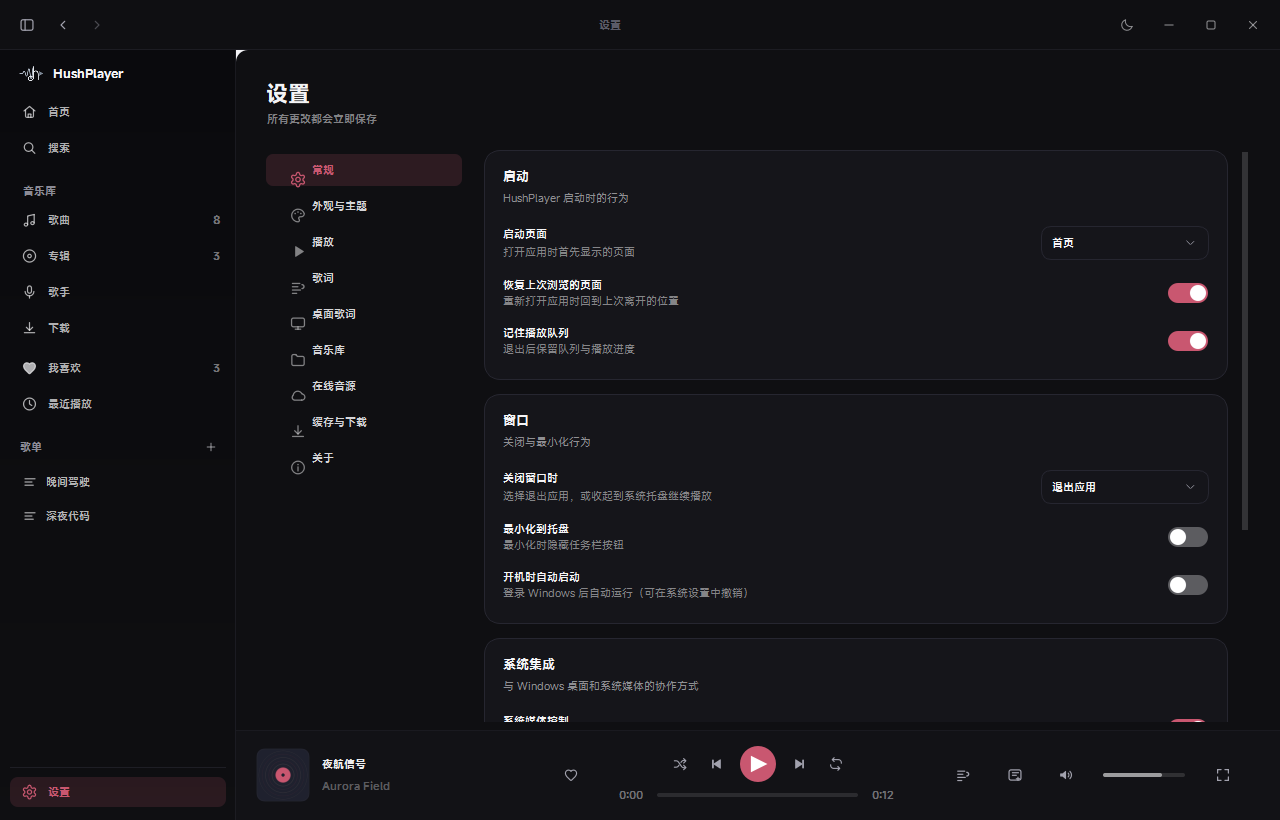
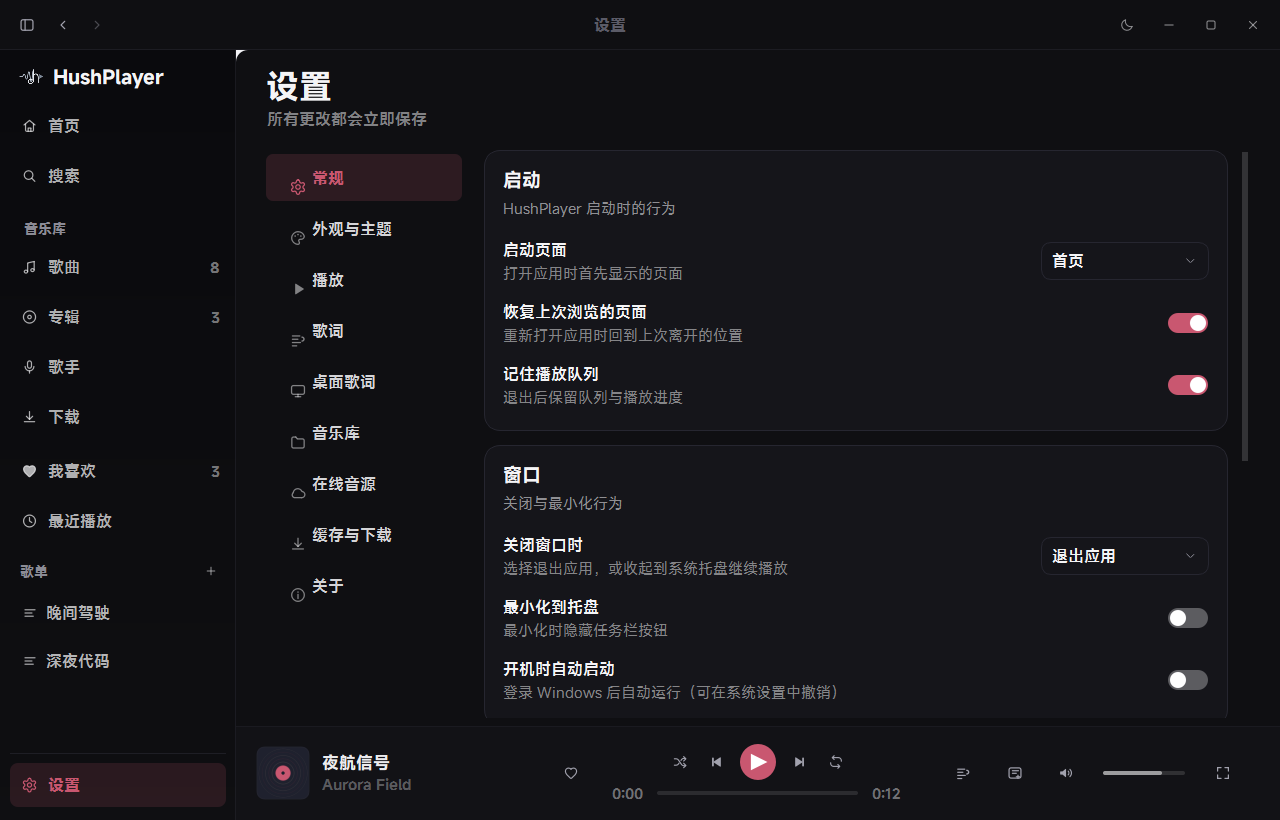
feat(ui): 关闭方式询问、100% DPR + 1.5 类型缩放、设置导航对齐（1.0.23/1.0.24）

diff --git a/hushplayer/core/theme.py b/hushplayer/core/theme.py
@@ -162,13 +162,13 @@ class Metrics:
     radius_lg: int = 16
     radius_xl: int = 22
     titlebar_h: int = 48
-    sidebar_w: int = 236
-    sidebar_rail_w: int = 72
-    player_h: int = 90
+    sidebar_w: int = 244
+    sidebar_rail_w: int = 76
+    player_h: int = 94
     page_pad: int = 30
     gap: int = 16
-    row_h: int = 46
-    row_h_compact: int = 36
+    row_h: int = 50
+    row_h_compact: int = 38
     control: int = 34
     hit: int = 30
     motion_fast: int = 110
@@ -188,6 +188,7 @@ class Theme(QObject):
         self._palette = DARK
         self._reduce_motion = False
         self._font_scale = 1.0
+        self._ui_scale = 1.0
         self._accent = BRAND_ACCENT
         self._density = "comfortable"
         self._families = _detect_families()
@@ -218,6 +219,29 @@ class Theme(QObject):
         return self._font_scale
 
     @property
+    def ui_scale(self) -> float:
+        """Layout-independent type scale for high-resolution screens.
+
+        Keeping the device pixel ratio at 1.0 and enlarging type/metrics here
+        keeps glyphs on whole pixels (crisp) while still looking comfortable on
+        a 1440p panel.
+        """
+        return self._ui_scale
+
+    @property
+    def type_scale(self) -> float:
+        return self._ui_scale * self._font_scale
+
+    def scaled(self, value: int | float, *, factor: float = 0.85) -> int:
+        """Scale a layout constant with the type scale (nav rows, chips, …)."""
+        scale = 1.0 + (self.type_scale - 1.0) * factor
+        return int(round(float(value) * scale))
+
+    def pt(self, size: float) -> float:
+        """Point size scaled with both UI density and the user font slider."""
+        return size * self.type_scale
+
+    @property
     def accent(self) -> str:
         return self._accent
 
@@ -236,6 +260,7 @@ class Theme(QObject):
         reduce_motion: bool | None = None,
         font_scale: float | None = None,
         density: str | None = None,
+        ui_scale: float | None = None,
     ) -> None:
         changed = False
         if mode is not None and mode != self._mode:
@@ -254,6 +279,9 @@ class Theme(QObject):
             changed = True
         if font_scale is not None and abs(font_scale - self._font_scale) > 1e-3:
             self._font_scale = font_scale
+            changed = True
+        if ui_scale is not None and abs(ui_scale - self._ui_scale) > 1e-3:
+            self._ui_scale = ui_scale
             changed = True
         if density is not None and density != self._density:
             self._density = density
@@ -277,7 +305,7 @@ class Theme(QObject):
         families = self._families
         font = QFont()
         font.setFamilies(families)
-        scaled = (size + self.FONT_LEGIBILITY_BONUS) * self._font_scale
+        scaled = (size + self.FONT_LEGIBILITY_BONUS) * self.type_scale
         font.setPixelSize(max(11, round(scaled)))
         font.setWeight(QFont.Weight(weight))
         font.setHintingPreference(QFont.HintingPreference.PreferFullHinting)
@@ -288,7 +316,7 @@ class Theme(QObject):
     def mono_font(self, size: float, weight: int = 400) -> QFont:
         font = QFont()
         font.setFamilies(["Cascadia Mono", "Consolas", "Segoe UI"])
-        scaled = (size + self.FONT_LEGIBILITY_BONUS) * self._font_scale
+        scaled = (size + self.FONT_LEGIBILITY_BONUS) * self.type_scale
         font.setPixelSize(max(11, round(scaled)))
         font.setWeight(QFont.Weight(weight))
         font.setHintingPreference(QFont.HintingPreference.PreferFullHinting)

diff --git a/hushplayer/ui/immersive.py b/hushplayer/ui/immersive.py
@@ -197,7 +197,7 @@ class _TopBar(QWidget):
         layout.addWidget(self.collapse)
 
         self.brand = QLabel("HushPlayer", self)
-        self.brand.setStyleSheet(f"color:{css_rgba('#ffffff', 0.34)};font-size:9pt;")
+        self.brand.setStyleSheet(f"color:{css_rgba('#ffffff', 0.34)};font-size:{theme().pt(9):.1f}pt;")
         layout.addWidget(self.brand)
         layout.addStretch(1)
 
@@ -369,13 +369,13 @@ class _CoverStage(QWidget):
 
     def refresh_theme(self) -> None:
         self.info_title.setStyleSheet(
-            f"color:#ffffff;font-size:{max(20.0, 25 * theme().font_scale):.1f}pt;font-weight:700;"
+            f"color:#ffffff;font-size:{max(20.0, 25 * theme().type_scale):.1f}pt;font-weight:700;"
         )
         self.info_artist.setStyleSheet(
-            f"color:{css_rgba('#ffffff', 0.66)};font-size:{12.4 * theme().font_scale:.1f}pt;"
+            f"color:{css_rgba('#ffffff', 0.66)};font-size:{12.4 * theme().type_scale:.1f}pt;"
         )
         self.info_album.setStyleSheet(
-            f"color:{css_rgba('#ffffff', 0.38)};font-size:{9.4 * theme().font_scale:.1f}pt;"
+            f"color:{css_rgba('#ffffff', 0.38)};font-size:{9.4 * theme().type_scale:.1f}pt;"
         )
         self.lyrics.refresh_theme()
 
@@ -444,13 +444,13 @@ class _LyricsStage(QWidget):
 
     def refresh_theme(self) -> None:
         self.info_title.setStyleSheet(
-            f"color:#ffffff;font-size:{13.0 * theme().font_scale:.1f}pt;font-weight:600;"
+            f"color:#ffffff;font-size:{13.0 * theme().type_scale:.1f}pt;font-weight:600;"
         )
         self.info_artist.setStyleSheet(
-            f"color:{css_rgba('#ffffff', 0.55)};font-size:{9.2 * theme().font_scale:.1f}pt;"
+            f"color:{css_rgba('#ffffff', 0.55)};font-size:{9.2 * theme().type_scale:.1f}pt;"
         )
         self.source_label.setStyleSheet(
-            f"color:{css_rgba('#ffffff', 0.32)};font-size:{8.6 * theme().font_scale:.1f}pt;"
+            f"color:{css_rgba('#ffffff', 0.32)};font-size:{8.6 * theme().type_scale:.1f}pt;"
         )
         self.lyrics.refresh_theme()
 
@@ -612,7 +612,7 @@ class _MonoLabel(QLabel):
         super().__init__(text, parent)
         self.setFixedWidth(40)
         self.setAlignment(Qt.AlignCenter)
-        self.setStyleSheet(f"color:{css_rgba('#ffffff', 0.45)};font-size:9pt;")
+        self.setStyleSheet(f"color:{css_rgba('#ffffff', 0.45)};font-size:{theme().pt(9):.1f}pt;")
 
 
 class _BigPlayButton(IconButton):

diff --git a/hushplayer/ui/widgets/queue_panel.py b/hushplayer/ui/widgets/queue_panel.py
@@ -33,10 +33,10 @@ class QueuePanel(QWidget):
         head = QHBoxLayout()
         head.setSpacing(8)
         self.title = QLabel("播放队列")
-        self.title.setStyleSheet("font-size:13pt; font-weight:700;")
+        self.title.setStyleSheet(f"font-size:{theme().pt(13):.1f}pt; font-weight:700;")
         head.addWidget(self.title)
         self.count = QLabel("0 首")
-        self.count.setStyleSheet(f"font-size:9pt; color:{css_rgba(theme().palette.text, 0.45)};")
+        self.count.setStyleSheet(f"font-size:{theme().pt(9):.1f}pt; color:{css_rgba(theme().palette.text, 0.45)};")
         head.addWidget(self.count)
         head.addStretch(1)
         self.clear_button = IconButton("trash", size=28, icon_size=15, tooltip="清空播放队列")
@@ -49,7 +49,7 @@ class QueuePanel(QWidget):
 
         self.context_label = QLabel("")
         self.context_label.setStyleSheet(
-            f"font-size:9pt; color:{css_rgba(theme().palette.text, 0.45)};"
+            f"font-size:{theme().pt(9):.1f}pt; color:{css_rgba(theme().palette.text, 0.45)};"
         )
         layout.addWidget(self.context_label)
 
@@ -210,9 +210,9 @@ class QueuePanel(QWidget):
             }}
             """
         )
-        self.count.setStyleSheet(f"font-size:9pt; color:{css_rgba(theme().palette.text, 0.45)};")
+        self.count.setStyleSheet(f"font-size:{theme().pt(9):.1f}pt; color:{css_rgba(theme().palette.text, 0.45)};")
         self.context_label.setStyleSheet(
-            f"font-size:9pt; color:{css_rgba(theme().palette.text, 0.45)};"
+            f"font-size:{theme().pt(9):.1f}pt; color:{css_rgba(theme().palette.text, 0.45)};"
         )
         self.list.refresh_theme()
 

diff --git a/hushplayer/ui/pages/lyrics.py b/hushplayer/ui/pages/lyrics.py
@@ -162,24 +162,24 @@ class LyricsPage(Page):
     def refresh_theme(self) -> None:
         palette = theme().palette
         self.title_label.setStyleSheet(
-            f"color:{palette.text};font-size:{17 * theme().font_scale:.1f}pt;font-weight:700;"
+            f"color:{palette.text};font-size:{17 * theme().type_scale:.1f}pt;font-weight:700;"
         )
         self.artist_label.setStyleSheet(
             f"color:{palette.text_secondary};"
-            f"font-size:{11.4 * theme().font_scale:.1f}pt;"
+            f"font-size:{11.4 * theme().type_scale:.1f}pt;"
         )
         self.album_label.setStyleSheet(
             f"color:{palette.text_tertiary};"
-            f"font-size:{9.6 * theme().font_scale:.1f}pt;"
+            f"font-size:{9.6 * theme().type_scale:.1f}pt;"
         )
         self.provider_label.setStyleSheet(
-            f"color:{palette.text_tertiary};font-size:{8.8 * theme().font_scale:.1f}pt;"
+            f"color:{palette.text_tertiary};font-size:{8.8 * theme().type_scale:.1f}pt;"
         )
         self.offset_label.setStyleSheet(
-            f"color:{palette.text_secondary};font-size:{9 * theme().font_scale:.1f}pt;"
+            f"color:{palette.text_secondary};font-size:{9 * theme().type_scale:.1f}pt;"
         )
         self.hint_label.setStyleSheet(
-            f"color:{palette.text_tertiary};font-size:{9 * theme().font_scale:.1f}pt;"
+            f"color:{palette.text_tertiary};font-size:{9 * theme().type_scale:.1f}pt;"
         )
         self.view.refresh_theme()
 

diff --git a/hushplayer/app.py b/hushplayer/app.py
@@ -165,6 +165,23 @@ class HushApp(QObject):
             except Exception as exc:  # noqa: BLE001
                 log_exception("窗口响应设置失败", exc)
 
+    def _ui_type_scale(self) -> float:
+        import os
+
+        from .core import display
+
+        override = os.environ.get("HUSHPLAYER_TYPE_SCALE")
+        if override:
+            try:
+                return max(1.0, float(override))
+            except ValueError:
+                pass
+        try:
+            width, _height = display.physical_screen_size()
+        except Exception:  # noqa: BLE001
+            return 1.0
+        return display.recommended_type_scale(width)
+
     def apply_theme(self, *, animate: bool = True) -> None:
         preference = str(self.settings.get("appearance.theme", "system"))
         accent = str(self.settings.get("appearance.accent", "#C95770"))
@@ -189,8 +206,9 @@ class HushApp(QObject):
             reduce_motion=reduce_motion,
             font_scale=font_scale,
             density=density,
+            ui_scale=self._ui_type_scale(),
         )
-        log.info("应用主题：%s → %s", preference, actual)
+        log.info("应用主题：%s → %s（字号缩放 ×%.2f）", preference, actual, theme().type_scale)
         self.app.setStyleSheet(theme().qss())
         if window is not None:
             window.refresh_theme()

diff --git a/hushplayer/ui/pages/search.py b/hushplayer/ui/pages/search.py
@@ -187,7 +187,7 @@ class SearchPage(Page):
 
         self.online_status = QLabel("")
         self.online_status.setStyleSheet(
-            f"font-size:9pt; color:{css_rgba(theme().palette.text, 0.5)};"
+            f"font-size:{theme().pt(9):.1f}pt; color:{css_rgba(theme().palette.text, 0.5)};"
         )
         layout.addWidget(self.online_status)
 
@@ -622,11 +622,11 @@ class SearchPage(Page):
         self.online_list.refresh_theme()
         self.segments.update()
         self.online_status.setStyleSheet(
-            f"font-size:9pt; color:{css_rgba(theme().palette.text, 0.5)};"
+            f"font-size:{theme().pt(9):.1f}pt; color:{css_rgba(theme().palette.text, 0.5)};"
         )
 
 
 class _MiniTitle(QLabel):
     def __init__(self, text: str, parent: QWidget | None = None) -> None:
         super().__init__(text, parent)
-        self.setStyleSheet("font-size:11pt; font-weight:700;")
+        self.setStyleSheet(f"font-size:{theme().pt(11):.1f}pt; font-weight:700;")

diff --git a/hushplayer/ui/widgets/hero.py b/hushplayer/ui/widgets/hero.py
@@ -95,13 +95,13 @@ class HeroPanel(QWidget):
     def refresh_theme(self) -> None:
         palette = theme().palette
         self.eyebrow.setStyleSheet(
-            f"color:{css_rgba(palette.text, 0.5)}; font-size:8.6pt; font-weight:600;"
+            f"color:{css_rgba(palette.text, 0.5)}; font-size:{theme().pt(8.6):.1f}pt; font-weight:600;"
         )
         self.title.setStyleSheet(
-            f"color:{css_rgba(palette.text, 0.98)}; font-size:26pt; font-weight:700;"
+            f"color:{css_rgba(palette.text, 0.98)}; font-size:{theme().pt(26):.1f}pt; font-weight:700;"
         )
         self.title.setWordWrap(True)
         self.meta.setStyleSheet(
-            f"color:{css_rgba(palette.text, 0.55)}; font-size:9pt; font-weight:400;"
+            f"color:{css_rgba(palette.text, 0.55)}; font-size:{theme().pt(9):.1f}pt; font-weight:400;"
         )
         self.update()

diff --git a/hushplayer/ui/widgets/sidebar.py b/hushplayer/ui/widgets/sidebar.py
@@ -121,7 +121,7 @@ class SidebarItem(QAbstractButton):
         self.setCursor(Qt.PointingHandCursor)
         self.setCheckable(False)
         self.setFocusPolicy(Qt.NoFocus)
-        self.setFixedHeight(32)
+        self.setFixedHeight(theme().scaled(32))
         self.setSizePolicy(QSizePolicy.Expanding, QSizePolicy.Fixed)
         self.setToolTip(entry.label)
 
@@ -216,7 +216,7 @@ class PlaylistItem(QAbstractButton):
         self._collapsed = False
         self.setCursor(Qt.PointingHandCursor)
         self.setFocusPolicy(Qt.NoFocus)
-        self.setFixedHeight(32)
+        self.setFixedHeight(theme().scaled(32))
         self.setSizePolicy(QSizePolicy.Expanding, QSizePolicy.Fixed)
         self.setToolTip(playlist.name)
         self.setContextMenuPolicy(Qt.CustomContextMenu)

diff --git a/hushplayer/core/display.py b/hushplayer/core/display.py
@@ -44,6 +44,21 @@ def physical_screen_size() -> tuple[int, int]:
         return 0, 0
 
 
+def recommended_type_scale(physical_width: int) -> float:
+    """Type enlargement applied at DPR 1.0 on high-resolution panels.
+
+    1440p at 100% has very small logical text; scaling type here (instead of
+    QT_SCALE_FACTOR) keeps glyphs on whole device pixels.
+    """
+    if physical_width >= 3200:
+        return 1.0  # 4K normally runs at DPR 1.5
+    if physical_width >= 2400:
+        return 1.5
+    if physical_width >= 2000:
+        return 1.2
+    return 1.0
+
+
 def recommended_scale(physical_width: int) -> str:
     """Pick a comfortable UI scale for the given physical width.
 

diff --git a/hushplayer/ui/pages/settings.py b/hushplayer/ui/pages/settings.py
@@ -89,13 +89,19 @@ class _SectionList(QWidget):
             self.update()
             self.changed.emit(index)
 
+    def _row_h(self) -> int:
+        from ...core.theme import theme
+
+        return theme().scaled(36)
+
     def sizeHint(self) -> QSize:
-        return QSize(196, len(SECTIONS) * 36 + 8)
+        return QSize(196, len(SECTIONS) * self._row_h() + 8)
 
     def _rect(self, index: int):
         from PySide6.QtCore import QRectF
 
-        return QRectF(0, index * 36 + 4, self.width(), 32)
+        row = self._row_h()
+        return QRectF(0, index * row + 4, self.width(), row - 4)
 
     def mouseMoveEvent(self, event) -> None:  # noqa: N802
         hover = -1

diff --git a/tests/test_theme.py b/tests/test_theme.py
@@ -2,6 +2,7 @@
 
 from __future__ import annotations
 
+import pytest
 from PySide6.QtGui import QFont
 
 from hushplayer.core.theme import theme
@@ -31,3 +32,13 @@ def test_font_scale_is_monotonic(qapp) -> None:
     large = theme().font(10.5).pixelSize()
     theme().apply(font_scale=1.0)
     assert large > small
+
+
+def test_ui_scale_enlarges_type_without_changing_dpr(qapp) -> None:
+    theme().apply(ui_scale=1.0, font_scale=1.0)
+    base = theme().font(10.5).pixelSize()
+    theme().apply(ui_scale=1.18)
+    scaled = theme().font(10.5).pixelSize()
+    theme().apply(ui_scale=1.0)
+    assert scaled > base
+    assert theme().pt(9) == pytest.approx(9.0)

diff --git a/hushplayer/ui/pages/home.py b/hushplayer/ui/pages/home.py
@@ -229,8 +229,8 @@ class _SectionTitle(QWidget):
 
         self.title = QLabel(title)
         self.hint = QLabel(hint)
-        self.title.setStyleSheet("font-size:14pt; font-weight:700;")
-        self.hint.setStyleSheet(f"font-size:9pt; color:{css_rgba(theme().palette.text, 0.45)};")
+        self.title.setStyleSheet(f"font-size:{theme().pt(14):.1f}pt; font-weight:700;")
+        self.hint.setStyleSheet(f"font-size:{theme().pt(9):.1f}pt; color:{css_rgba(theme().palette.text, 0.45)};")
         layout = QHBoxLayout(self)
         layout.setContentsMargins(0, 0, 0, 0)
         layout.setSpacing(10)
